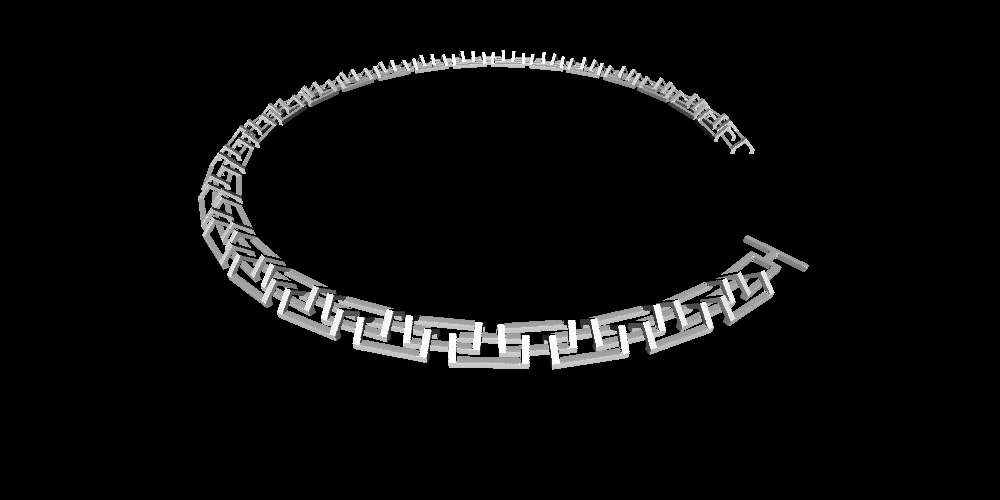
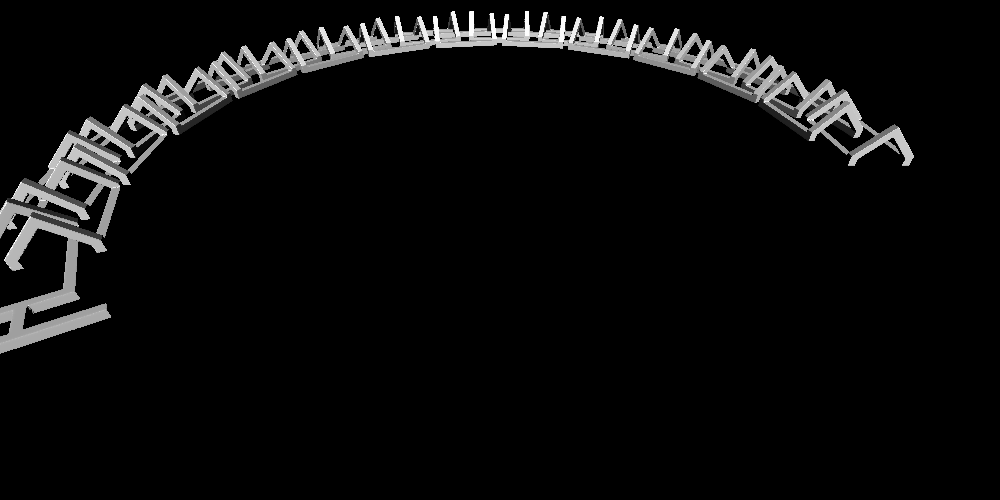
thicker necklace

Changed region(s): [[0.0, 0.03, 0.93, 0.75]]

diff --git a/examples/romantic/necklace/main.go b/examples/romantic/necklace/main.go
@@ -12,17 +12,17 @@ import (
 )
 
 const (
-	LinkWidth     = 0.2
-	LinkHeight    = 0.4
-	LinkThickness = 0.04
-	LinkOddShift  = LinkWidth * 0.4
+	LinkWidth     = 0.5
+	LinkHeight    = 0.8
+	LinkThickness = 0.06
+	LinkOddShift  = LinkWidth * 0.3
 
-	HookOffset = 0.1
+	HookOffset = 0.2
 	HookLength = LinkHeight
 
 	TotalLength = 20
 
-	StartRadius = 2.0
+	StartRadius = 3.0
 	SpiralRate  = 0.4 / (math.Pi * 2)
 	MoveRate    = 0.6 * LinkHeight
 )
@@ -32,18 +32,20 @@ func main() {
 	solid := LinkSolid{}
 	link := model3d.SolidToMesh(solid, 0.005, 0, -1, 5)
 	for i := 0; i < 10; i++ {
-		link = link.LassoSolid(solid, 0.005, 3, 200, 0.2)
+		link = link.LassoSolid(solid, 0.0025, 4, 200, 0.2)
 	}
-	link = link.FlattenBase(0)
-	link = link.EliminateCoplanar(1e-5)
+	// Causes self-intersections :(
+	// link = link.FlattenBase(0)
+	// link = link.EliminateCoplanar(1e-8)
 
 	log.Println("Creating hook mesh...")
 	hook := model3d.SolidToMesh(HookSolid{}, 0.005, 0, -1, 5)
 	for i := 0; i < 10; i++ {
-		hook = hook.LassoSolid(HookSolid{}, 0.005, 3, 200, 0.2)
+		hook = hook.LassoSolid(HookSolid{}, 0.0025, 4, 200, 0.2)
 	}
-	hook = hook.FlattenBase(0)
-	hook = hook.EliminateCoplanar(1e-5)
+	// Causes self-intersections :(
+	// hook = hook.FlattenBase(0)
+	// hook = hook.EliminateCoplanar(1e-8)
 
 	log.Println("Creating full mesh...")
 	m := model3d.NewMesh()
@@ -89,7 +91,8 @@ func (l LinkSolid) Min() model3d.Coord3D {
 }
 
 func (l LinkSolid) Max() model3d.Coord3D {
-	return model3d.Coord3D{X: LinkWidth / 2, Y: LinkHeight / 2, Z: LinkWidth/2 + LinkThickness}
+	return model3d.Coord3D{X: LinkWidth / 2, Y: LinkHeight / 2,
+		Z: LinkWidth/2 + LinkThickness*math.Sqrt2}
 }
 
 func (l LinkSolid) Contains(c model3d.Coord3D) bool {
@@ -105,7 +108,7 @@ func (l LinkSolid) Contains(c model3d.Coord3D) bool {
 	}
 
 	height := LinkWidth/2 - math.Abs(c.X)
-	return c.Z >= height && c.Z <= height+LinkThickness
+	return c.Z >= height && c.Z <= height+LinkThickness*math.Sqrt2
 }
 
 type HookSolid struct{}
@@ -116,7 +119,7 @@ func (h HookSolid) Min() model3d.Coord3D {
 
 func (h HookSolid) Max() model3d.Coord3D {
 	return model3d.Coord3D{X: HookLength / 2, Y: LinkHeight/2 + HookOffset + LinkThickness,
-		Z: LinkWidth/2 + LinkThickness}
+		Z: LinkWidth/2 + LinkThickness*math.Sqrt2}
 }
 
 func (h HookSolid) Contains(c model3d.Coord3D) bool {
@@ -140,7 +143,7 @@ func (h HookSolid) Contains(c model3d.Coord3D) bool {
 	}
 	if c.Y < -LinkHeight/2+LinkThickness && math.Abs(c.X) < LinkWidth/2 {
 		height := LinkWidth/2 - math.Abs(c.X)
-		if c.Z >= height && c.Z <= height+LinkThickness {
+		if c.Z >= height && c.Z <= height+LinkThickness*math.Sqrt2 {
 			return true
 		}
 	}
